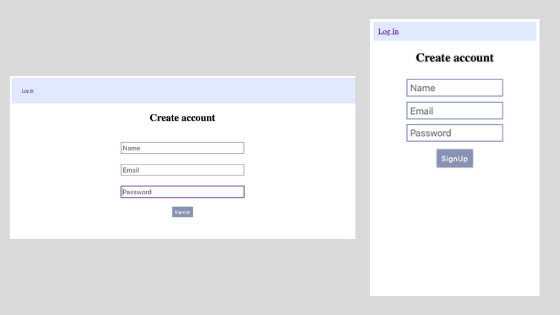
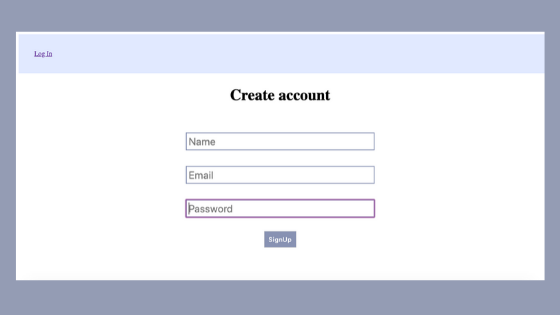
fotos mejor calidad

diff --git a/Readme.md b/Readme.md
@@ -24,33 +24,34 @@ El objetivo de este proyecto es construir una Red Social, Single-Page Applicatio
 - Vista SignUp
 El usuario puede Registrarse.
 Vista escritorio
-![SignUp](https://raw.githubusercontent.com/MonseSalasVi/GDL004-social-network/monse-/src/img/signup.png) 
+![SignUp]() 
 
 
 - Vista Login 
 El usuario puede entrar con su cuenta.
 Vista escritorio
- ![LogIn](https://raw.githubusercontent.com/MonseSalasVi/GDL004-social-network/monse-/src/img/singin.png)  
+ ![LogIn]()  
  
 
 - Vista Home
 El usuario observa los posts de todos.
-![Vista Home](https://raw.githubusercontent.com/MonseSalasVi/GDL004-social-network/monse-/src/img/vistaHome.png)
+![Vista Home]()
 
 - Log out
 El usuario puede cerrar sesion en la vista de perfil.
 
 - Vista Profile
 El usuario solo ve sus posts. Aqui puede eliminar y ediar sus posts.
-![Vista Profile](https://raw.githubusercontent.com/MonseSalasVi/GDL004-social-network/monse-/src/img/vistaProfile.png)
+![Vista Profile]()
 
 - Eliminar un post
 Si el usuario quiere eliminar un post, saldra una alerta de confirmacion.
-![eliminar post](https://raw.githubusercontent.com/MonseSalasVi/GDL004-social-network/monse-/src/img/alert-delete.png)
+![eliminar post]()
 
 - Editar un post
 Automaticamente los datos se agregaran al area de post y desde ahi editar, se agregara un boton podra guardar los cambios.
-![editar post](https://raw.githubusercontent.com/MonseSalasVi/GDL004-social-network/monse-/src/img/editpost.png)
+
+![editar post]()
 
 
 
